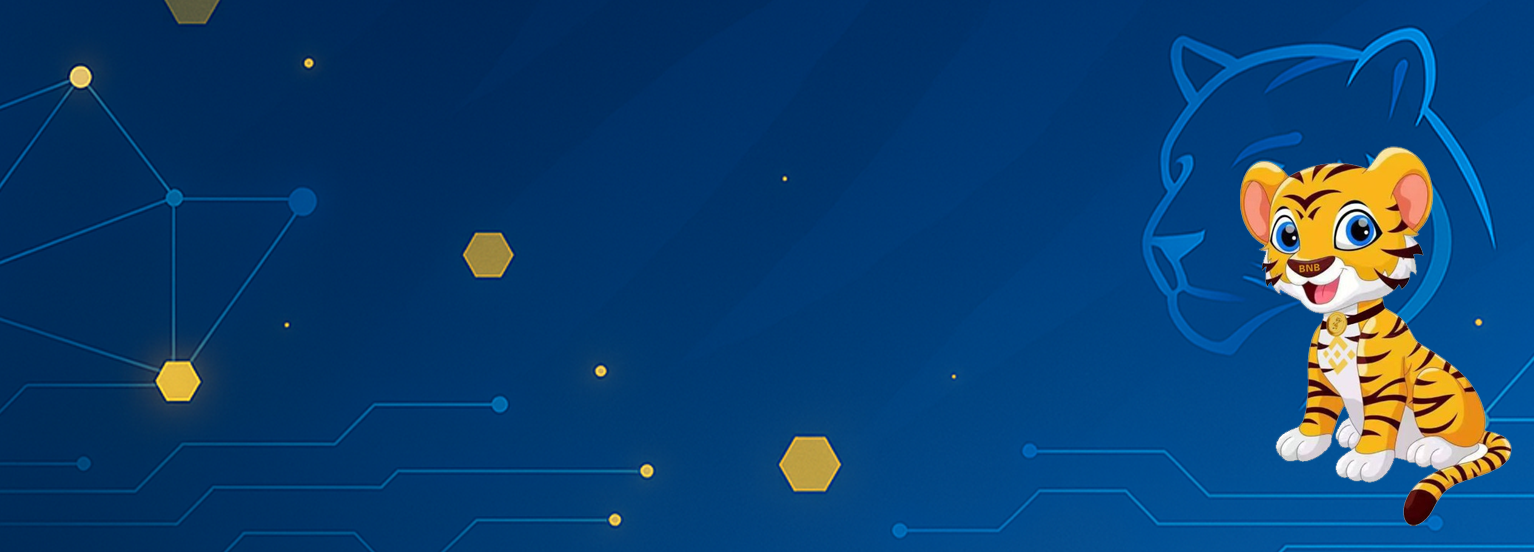
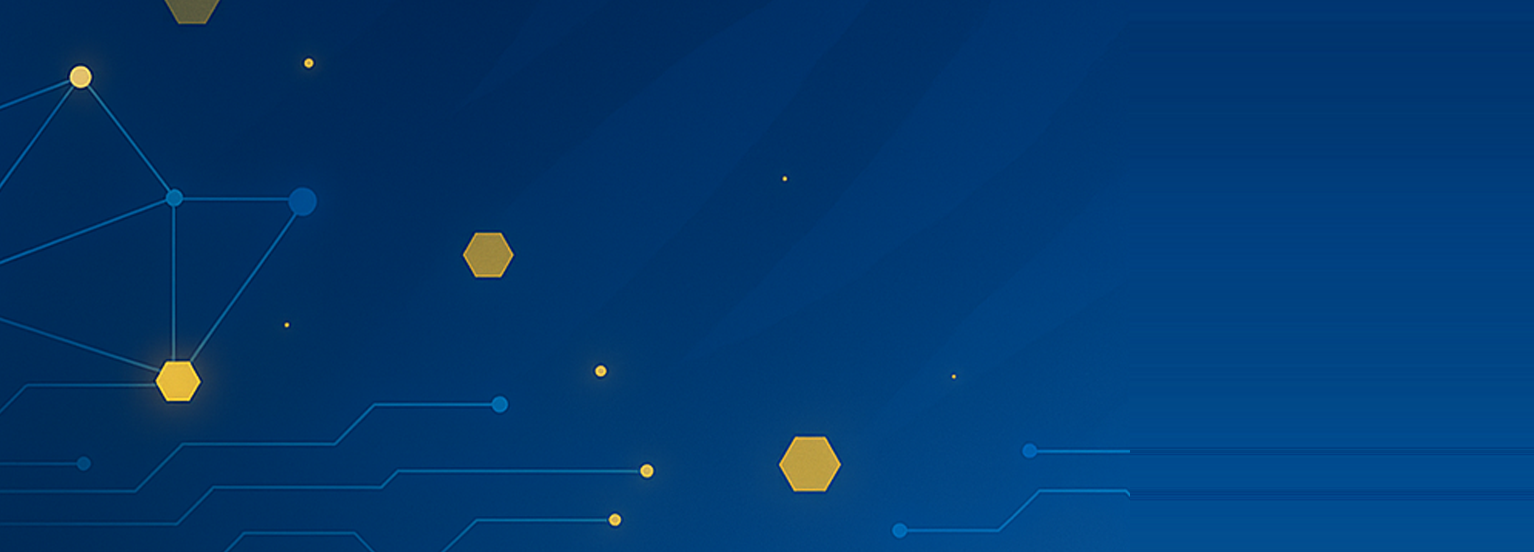
update

Changed region(s): [[0.7353, 0.0308, 1.0, 0.9547], [0.8272, 0.9855, 1.0, 1.0], [0.7353, 0.8007, 0.766, 0.8315]]

diff --git a/contact.html b/contact.html
@@ -1,4 +1,4 @@
-<!DOCTYPE html>
+<!DOCTYPE html>
 <html lang="en" data-bs-theme="light">
 
 <head>
@@ -85,7 +85,8 @@
                         </div>
                     </div>
                 </div>
-                <img src="static/picture/hero-bg-2.png" alt="image" class="img-fluid w-100 position-absolute start-0 bottom-0 z-n1 pointer-none opacity-50">
+                <img src="static/picture/hero-bg-2.png" alt="" class="img-fluid w-100 position-absolute start-0 bottom-0 z-n1 pointer-none opacity-50">
+                <img src="logo.png" alt="Crotopia" class="banner-character">
             </div>
             <!-- Banner End -->
             <!-- Contact Section -->
@@ -114,7 +115,7 @@
                                 <h6 class="mb-0">Join Our Community</h6>
                                 <ul class="list list-row align-items-center flex-wrap gap-4">
                                     <li>
-                                        <a href="https://x.com/crotopia_x" class="btn btn-icon btn-light hover:bg-secondary rounded-circle" target="_blank" rel="noopener">
+                                        <a href="https://x.com/crotopiaonx" class="btn btn-icon btn-light hover:bg-secondary rounded-circle" target="_blank" rel="noopener">
                                             <iconify-icon icon="prime:twitter"></iconify-icon>
                                         </a>
                                     </li>
@@ -185,7 +186,7 @@
                                                 <p class="mb-6 text-heading"> Trading cryptocurrencies is highly speculative, carries a high level of risk </p>
                                                 <ul class="list list-row align-items-center flex-wrap gap-4">
                                                     <li>
-                                                        <a href="https://x.com/crotopia_x" class="btn btn-icon btn-light rounded-circle" target="_blank" rel="noopener">
+                                                        <a href="https://x.com/crotopiaonx" class="btn btn-icon btn-light rounded-circle" target="_blank" rel="noopener">
                                                             <iconify-icon icon="prime:twitter"></iconify-icon>
                                                         </a>
                                                     </li>

diff --git a/about.html b/about.html
@@ -1,4 +1,4 @@
-<!DOCTYPE html>
+<!DOCTYPE html>
 <html lang="en" data-bs-theme="light">
 
 <head>
@@ -85,7 +85,8 @@
                         </div>
                     </div>
                 </div>
-                <img src="static/picture/hero-bg-2.png" alt="image" class="img-fluid w-100 position-absolute start-0 bottom-0 z-n1 pointer-none opacity-50">
+                <img src="static/picture/hero-bg-2.png" alt="" class="img-fluid w-100 position-absolute start-0 bottom-0 z-n1 pointer-none opacity-50">
+                <img src="logo.png" alt="Crotopia" class="banner-character">
             </div>
             <!-- Banner End -->
             <!-- About Us -->
@@ -106,7 +107,7 @@
                                     </a>
                                     <ul class="list list-row align-items-center flex-wrap gap-4">
                                         <li>
-                                            <a href="https://x.com/crotopia_x" class="btn btn-icon btn-light rounded-circle" target="_blank" rel="noopener">
+                                            <a href="https://x.com/crotopiaonx" class="btn btn-icon btn-light rounded-circle" target="_blank" rel="noopener">
                                                 <iconify-icon icon="prime:twitter"></iconify-icon>
                                             </a>
                                         </li>
@@ -302,7 +303,7 @@
                                                 <p class="mb-6 text-heading"> Trading cryptocurrencies is highly speculative, carries a high level of risk </p>
                                                 <ul class="list list-row align-items-center flex-wrap gap-4">
                                                     <li>
-                                                        <a href="https://x.com/crotopia_x" class="btn btn-icon btn-light rounded-circle" target="_blank" rel="noopener">
+                                                        <a href="https://x.com/crotopiaonx" class="btn btn-icon btn-light rounded-circle" target="_blank" rel="noopener">
                                                             <iconify-icon icon="prime:twitter"></iconify-icon>
                                                         </a>
                                                     </li>

diff --git a/whitepaper.html b/whitepaper.html
@@ -839,11 +839,11 @@
                 </div>
                 
                 <div class="col-lg-3 col-md-6">
-                    <a href="https://x.com/crotopia_x" class="text-decoration-none" target="_blank" rel="noopener">
+                    <a href="https://x.com/crotopiaonx" class="text-decoration-none" target="_blank" rel="noopener">
                         <div class="bg-light border border-2x border-dark shadow-sharp rounded-5 p-6 text-center h-100 hover-lift">
                             <iconify-icon icon="ri:twitter-x-fill" class="fs-60 text-dark mb-4"></iconify-icon>
                             <h5 class="text-heading mb-2">Twitter (X)</h5>
-                            <p class="text-muted mb-0">@crotopia_x</p>
+                            <p class="text-muted mb-0">@crotopiaonx</p>
                         </div>
                     </a>
                 </div>
@@ -925,7 +925,7 @@
                 <h3 class="text-light text-stroke mb-4">The Royal Cat Kingdom</h3>
                 <p class="text-light opacity-75 mb-6">Crotopia - Community-driven, conservation-focused, and built for the future.</p>
                 <div class="d-flex justify-content-center gap-4 mb-6">
-                    <a href="https://x.com/crotopia_x" class="btn btn-icon btn-lg btn-warning rounded-circle" target="_blank" rel="noopener">
+                    <a href="https://x.com/crotopiaonx" class="btn btn-icon btn-lg btn-warning rounded-circle" target="_blank" rel="noopener">
                         <iconify-icon icon="ri:twitter-x-fill"></iconify-icon>
                     </a>
                     <a href="#" class="btn btn-icon btn-lg btn-warning rounded-circle">

diff --git a/index.html b/index.html
@@ -1,4 +1,4 @@
-<!DOCTYPE html>
+<!DOCTYPE html>
 <html lang="en" data-bs-theme="light">
 
 <head>
@@ -188,7 +188,7 @@
                                     </a>
                                     <ul class="list list-row align-items-center flex-wrap gap-4">
                                         <li>
-                                            <a href="https://x.com/crotopia_x" class="btn btn-icon btn-lg btn-light rounded-circle" target="_blank" rel="noopener">
+                                            <a href="https://x.com/crotopiaonx" class="btn btn-icon btn-lg btn-light rounded-circle" target="_blank" rel="noopener">
                                                 <iconify-icon icon="prime:twitter"></iconify-icon>
                                             </a>
                                         </li>
@@ -885,7 +885,7 @@
                                     </div>
                                     <ul class="list list-row gap-4 justify-content-center mt-8 flex-wrap">
                                         <li>
-                                            <a href="https://x.com/crotopia_x" class="btn btn-icon btn-light hover:bg-secondary rounded-circle" target="_blank" rel="noopener">
+                                            <a href="https://x.com/crotopiaonx" class="btn btn-icon btn-light hover:bg-secondary rounded-circle" target="_blank" rel="noopener">
                                                 <iconify-icon icon="ri:twitter-x-fill"></iconify-icon>
                                             </a>
                                         </li>

diff --git a/game.html b/game.html
@@ -604,7 +604,7 @@
                         <h3 class="text-light text-stroke mb-4">Feed Your Cat, Watch the Kingdom Grow!</h3>
                         <p class="text-light opacity-75 mb-6">Crotopia Game - A fun way to interact with the Crotopia ecosystem.</p>
                         <div class="d-flex justify-content-center gap-4 mb-6">
-                            <a href="https://x.com/crotopia_x" class="btn btn-icon btn-lg btn-warning rounded-circle" target="_blank" rel="noopener">
+                            <a href="https://x.com/crotopiaonx" class="btn btn-icon btn-lg btn-warning rounded-circle" target="_blank" rel="noopener">
                                 <iconify-icon icon="ri:twitter-x-fill"></iconify-icon>
                             </a>
                             <a href="#" class="btn btn-icon btn-lg btn-warning rounded-circle">

diff --git a/nft.html b/nft.html
@@ -495,7 +495,7 @@
                 <h3 class="text-light text-stroke mb-4">Create Your Crotopia Cat</h3>
                 <p class="text-light opacity-75 mb-6">Share a royal cat and join the Crotopia kingdom.</p>
                 <div class="d-flex justify-content-center gap-4 mb-6">
-                    <a href="https://x.com/crotopia_x" class="btn btn-icon btn-lg btn-warning rounded-circle" target="_blank" rel="noopener">
+                    <a href="https://x.com/crotopiaonx" class="btn btn-icon btn-lg btn-warning rounded-circle" target="_blank" rel="noopener">
                         <iconify-icon icon="ri:twitter-x-fill"></iconify-icon>
                     </a>
                     <a href="#" class="btn btn-icon btn-lg btn-warning rounded-circle">

diff --git a/static/css/style.css b/static/css/style.css
@@ -4062,6 +4062,20 @@ small,
     padding-bottom: clamp(6.5rem, 7.89vw + 1rem, 9.375rem);
     position: relative;
     isolation: isolate;
+    overflow: hidden;
+}
+.banner-character {
+    position: absolute;
+    z-index: 0;
+    right: 3%;
+    bottom: 0;
+    height: 92%;
+    width: auto;
+    max-width: 34%;
+    aspect-ratio: 1;
+    object-fit: cover;
+    border-radius: 50%;
+    pointer-events: none;
 }
 /* Container Customization */
 .container-max {
